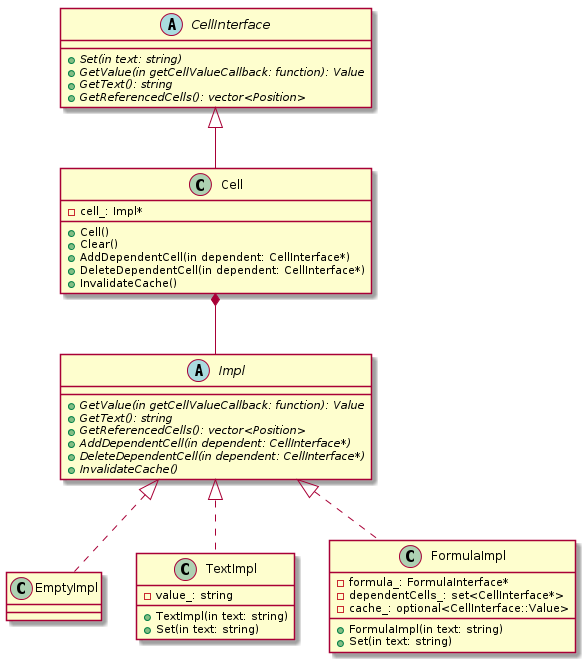
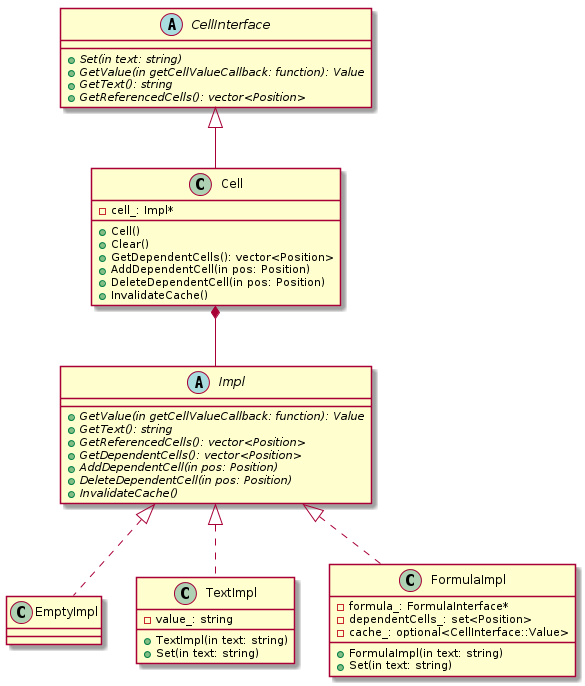
Fix SetCell()

diff --git a/headers/cell.h b/headers/cell.h
@@ -10,28 +10,21 @@ class Cell : public CellInterface {
   Cell();
   ~Cell();
 
-  // - выясняем, что надо создавать: текст или формулу
-  // - инвалидируем свой кэш
-  // - инвалидируем кэш у всех dependent cells (InvalidateCache)
-  // - отвязываемся от всех referenced cells (DeleteDependentCell)
-  // - создаем необходимый impl
-  // - получаем referenced cells
-  // - для каждой referenced cell вызываем AddDependentCell, в качестве
-  // аргумента передаем себя
   void Set(std::string text) override;
 
-  // - инвалидируем кэш у всех dependent cells (InvalidateCache)
-  // - отвязываемся от всех referenced cells (DeleteDependentCell)
   // - сбрасываем impl_
   void Clear();
 
   Value GetValue() const override;
   std::string GetText() const override;
   std::vector<Position> GetReferencedCells() const override;
+  // Используется Position, т.к. сказано, что нельзя менять CellInterface,
+  // поэтому нет смысла использовать указатели на ячейки
+  std::vector<Position> GetDependentCells() const;
 
   // Если ячейка не создана, создаем EmptyImpl и в нее добавляем dependent cell
-  void AddDependentCell(const CellInterface* dependent);
-  void DeleteDependentCell(const CellInterface* dependent);
+  void AddDependentCell(const Position pos);
+  void DeleteDependentCell(const Position pos);
   void InvalidateCache() const;
 
  private:
@@ -53,8 +46,10 @@ class Cell::Impl {
   virtual ~Impl() = default;
 
   virtual std::vector<Position> GetReferencedCells() const = 0;
-  virtual void AddDependentCell(const CellInterface* dependent) = 0;
-  virtual void DeleteDependentCell(const CellInterface* dependent) = 0;
+  virtual std::vector<Position> GetDependentCells() const = 0;
+
+  virtual void AddDependentCell(const Position pos) = 0;
+  virtual void DeleteDependentCell(const Position pos) = 0;
   virtual void InvalidateCache() const = 0;
 };
 
@@ -73,9 +68,10 @@ class Cell::FormulaImpl : public Impl {
   std::string GetText() const override;
 
   std::vector<Position> GetReferencedCells() const override;
+  std::vector<Position> GetDependentCells() const override;
 
-  void AddDependentCell(const CellInterface* dependent) override;
-  void DeleteDependentCell(const CellInterface* dependent) override;
+  void AddDependentCell(const Position pos) override;
+  void DeleteDependentCell(const Position pos) override;
 
   // Сбрасывает свой cache_
   // а также вызывает InvalidateCache для всех dependentCells_;
@@ -83,6 +79,6 @@ class Cell::FormulaImpl : public Impl {
 
  private:
   std::unique_ptr<FormulaInterface> formula_;
-  std::unordered_set<CellInterface*> dependentCells_;
+  std::unordered_set<Position> dependentCells_;
   mutable std::optional<CellInterface::Value> cache_;
 };

diff --git a/headers/sheet.h b/headers/sheet.h
@@ -11,19 +11,26 @@ class Sheet : public SheetInterface {
  public:
   ~Sheet();
 
-  // НАДО КАК-ТО ИНАЧЕ, т.к. при вызове сета у села мы начинаем инвалидировать
-  // чужие кэши и т.д.
   // - проверяем границы
+  // - сравниваем text: если text == cell.GetText(), выходим
   // - создаем новый cell (старый не обновляем, пока не проверим на циклы)
   // - получаем для него referenced cells
   // - запускаем проверку HasCircularDependency()
-  //   если есть, то выбрасываем CircularDependencyException
-  //   если нет, то обновляем ячейку (например, swap)
+  //   если есть, то выбрасываем CircularDependencyException и ячейку не
+  //   обновляем
+  // - инвалидируем кэш старой ячейки
+  // - инвалидируем кэш у всех dependent cells старой ячейки (InvalidateCache)
+  // - отвязываем старую ячейку от всех referenced cells (DeleteDependentCell)
+  // - заменяем старую ячейку на новую
+  // - для каждой referenced cell новой ячейки вызываем AddDependentCell, в
+  // качестве аргумента передаем новую ячейку
   void SetCell(Position pos, std::string text) override;
 
   const CellInterface* GetCell(Position pos) const override;
   CellInterface* GetCell(Position pos) override;
 
+  // - инвалидируем кэш у всех dependent cells (InvalidateCache)
+  // - отвязываем ячейку от всех referenced cells (DeleteDependentCell)
   void ClearCell(Position pos) override;
 
   Size GetPrintableSize() const override;
@@ -52,5 +59,5 @@ class Sheet : public SheetInterface {
       const std::vector<Position>& referencedCells) const;
 
  private:
-  std::vector<std::vector<std::unique_ptr<CellInterface>>> cells_;
+  std::vector<std::vector<std::unique_ptr<Cell>>> cells_;
 };
